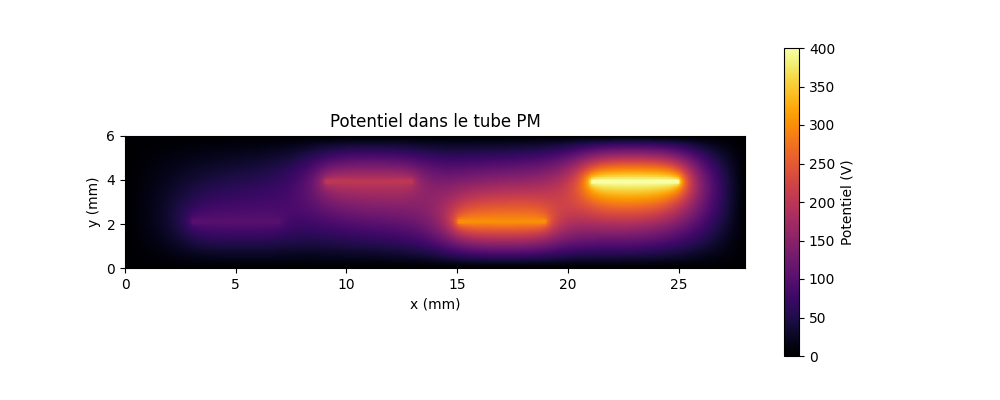
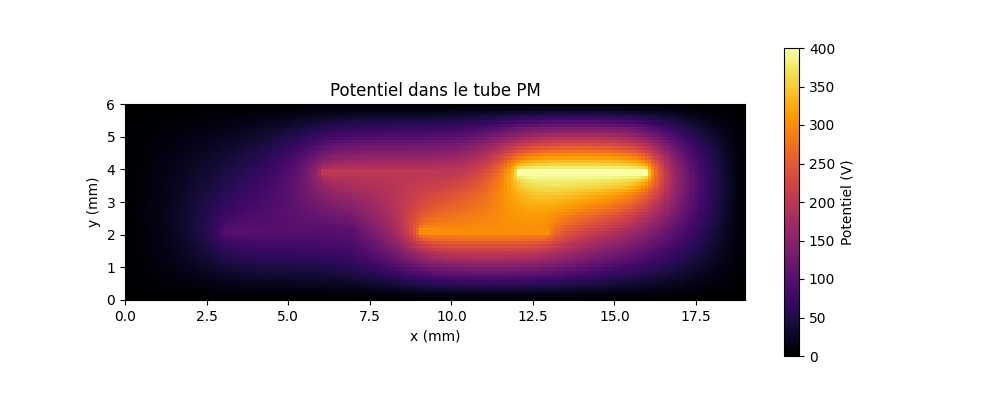
Correction de la géométrie et calcul du champ électrique

Changed region(s): [[0.093, 0.21, 0.744, 0.87], [0.093, 0.57, 0.124, 0.6], [0.093, 0.42, 0.124, 0.45]]

diff --git a/Q1_Calcul_Potentiel.py b/Q1_Calcul_Potentiel.py
@@ -4,36 +4,39 @@ import matplotlib.pyplot as plt
 # ===============================
 # Paramètres géométriques (mm)
 # ===============================
-scale = 10  # 1 mm = 10 cases (pixels)
-a = 3 * scale  # Espace dynode-extrémité
-b = 2 * scale  # Espace dynode-paroi
-c = 4 * scale  # Longueur dynode
-d = 2 * scale  # Distance entre dynodes
+scale = 10  # 1 mm = 10 cases
+a = 3 * scale   # Espace dynode-extrémité
+b = 2 * scale   # Espace dynode-paroi
+c = 4 * scale   # Longueur dynode
+d = 2 * scale   # Distance entre dynodes du même côté
 e = int(0.2 * scale)  # Épaisseur dynode
-f = 6 * scale  # Hauteur totale du tube
-N = 4  # Nombre de dynodes
+f = 6 * scale   # Hauteur du tube
+N = 4  # Nombre total de dynodes (2 en haut, 2 en bas)
 
 # ===============================
 # Grille : x = longueur, y = hauteur
 # ===============================
-Nx = a * 2 + (c + d) * (N - 1) + c  # Largeur du tube
-Ny = f  # Hauteur fixe du tube
+Nx = int(a * 2 + 2 * c + d + 0.5 * (c + d))  # Largeur totale = 19 mm = 190 cases
+Ny = f  # Hauteur du tube
 V = np.zeros((Ny, Nx))  # Grille du potentiel
 
 # ===============================
-# Conditions initiales
+# Conditions initiales (géométrie)
 # ===============================
 def init_conditions(V):
-    V[:, 0] = V[:, -1] = V[0, :] = V[-1, :] = 0  # Bords à 0 V
+    # Bords du tube à 0 V
+    V[:, 0] = V[:, -1] = V[0, :] = V[-1, :] = 0
 
-    for i in range(N):
-        x = a + i * (c + d)
-        if i % 2 == 0:
-            # Dynode en bas
-            V[b:b+e, x:x+c] = 100 * (i + 1)
-        else:
-            # Dynode en haut
-            V[-(b+e):-b, x:x+c] = 100 * (i + 1)
+    # Dynodes du bas (indices 0 et 1)
+    for i in range(N // 2):
+        x = int(a + i * (c + d))
+        V[b:b+e, x:x+c] = 100 * (2 * i + 1)
+
+    # Dynodes du haut (indices 2 et 3), décalées en x
+    for i in range(N // 2):
+        x = int(a + (i + 0.5) * (c + d))
+        V[-(b+e):-b, x:x+c] = 100 * (2 * i + 2)
+
     return V
 
 # ===============================
@@ -46,7 +49,8 @@ def relaxation(V, tol=1e-3, max_iter=10000):
     while diff > tol and iterations < max_iter:
         V_old = V.copy()
         V[1:-1, 1:-1] = 0.25 * (
-            V[2:, 1:-1] + V[:-2, 1:-1] + V[1:-1, 2:] + V[1:-1, :-2]
+            V[2:, 1:-1] + V[:-2, 1:-1] +
+            V[1:-1, 2:] + V[1:-1, :-2]
         )
         V = init_conditions(V)
         diff = np.max(np.abs(V - V_old))
@@ -56,7 +60,7 @@ def relaxation(V, tol=1e-3, max_iter=10000):
     return V
 
 # ===============================
-# Visualisation
+# Affichage du potentiel
 # ===============================
 def plot_potential(V):
     plt.figure(figsize=(10, 4))

diff --git a/Q2_Champ_Electrique.py b/Q2_Champ_Electrique.py
@@ -2,22 +2,25 @@ import numpy as np
 import matplotlib.pyplot as plt
 from Q1_Calcul_Potentiel import relaxation, init_conditions, scale, Nx, Ny
 
-
+# ===================================
+# Calcul du champ électrique
+# ===================================
 def calcul_champ_electrique(V):
-    # Calcul du champ électrique E = -grad(V)
-    Ey, Ex = np.gradient(-V)  # Gradient retourne d'abord l'axe y puis x
+    Ey, Ex = np.gradient(-V)  # Gradient retourne d'abord axe y puis x
     return Ex, Ey
 
-
+# ===================================
+# Affichage du champ + potentiel
+# ===================================
 def plot_champ_electrique(V, Ex, Ey):
-    plt.figure(figsize=(6, 10))
+    plt.figure(figsize=(10, 4))
 
-    # Affichage du potentiel en fond
+    # Affichage du potentiel
     plt.imshow(V, cmap="inferno", origin="lower",
                extent=[0, Nx / scale, 0, Ny / scale])
     plt.colorbar(label="Potentiel (V)")
 
-    # Grille pour champ électrique (moins dense pour lisibilité)
+    # Grille échantillonnée pour le champ (quiver)
     step = 5
     x = np.arange(0, Nx, step)
     y = np.arange(0, Ny, step)
@@ -26,7 +29,7 @@ def plot_champ_electrique(V, Ex, Ey):
     Ex_sample = Ex[::step, ::step]
     Ey_sample = Ey[::step, ::step]
 
-    # Superposition du champ électrique (quiver)
+    # Affichage du champ
     plt.quiver(X / scale, Y / scale, Ex_sample, Ey_sample,
                color="cyan", scale=100, width=0.003)
 
@@ -37,7 +40,9 @@ def plot_champ_electrique(V, Ex, Ey):
     plt.savefig("figures_dos/champ_PM.png")
     plt.show()
 
-
+# ===================================
+# Lancement
+# ===================================
 def main():
     print("Calcul du potentiel pour la question 2...")
     V = np.zeros((Ny, Nx))
@@ -49,7 +54,6 @@ def main():
 
     print("Affichage du champ électrique...")
     plot_champ_electrique(V, Ex, Ey)
-
 
 if __name__ == "__main__":
     main()
